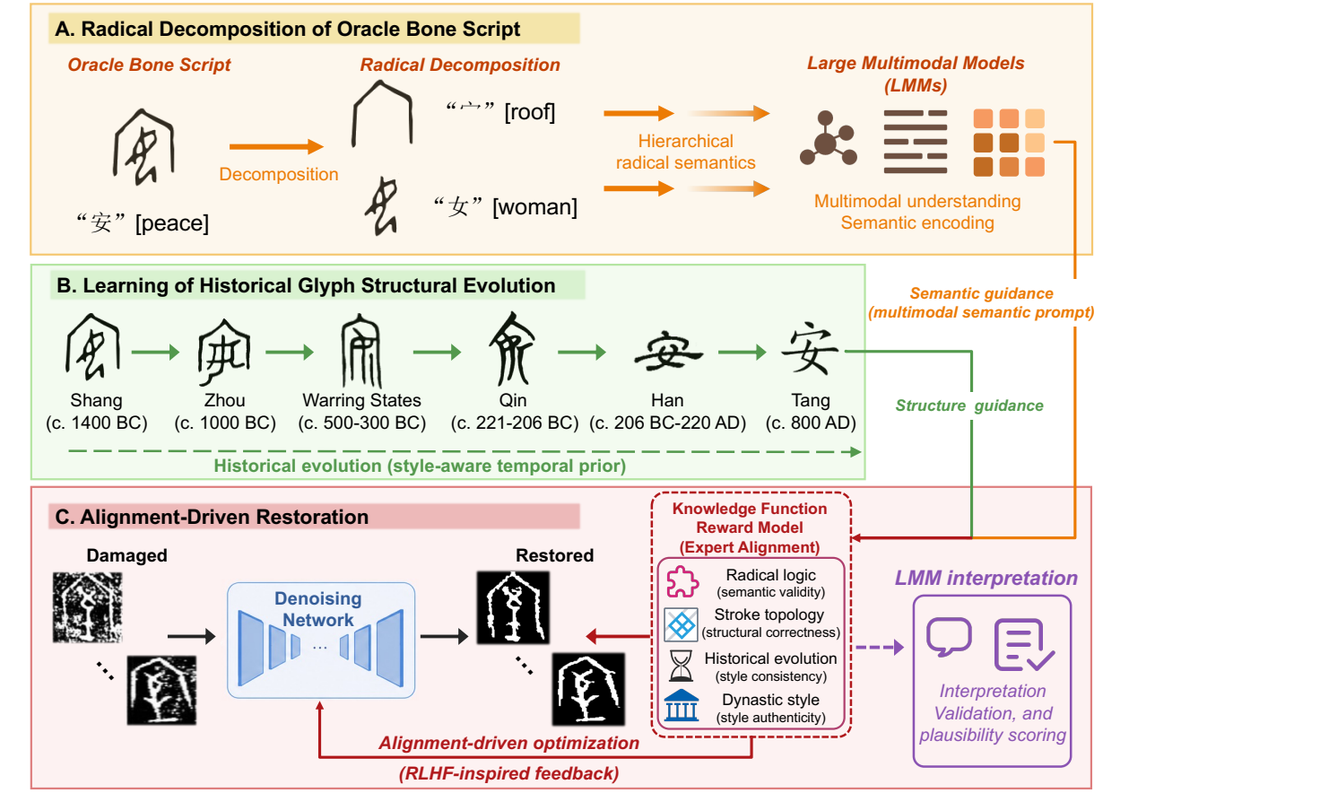
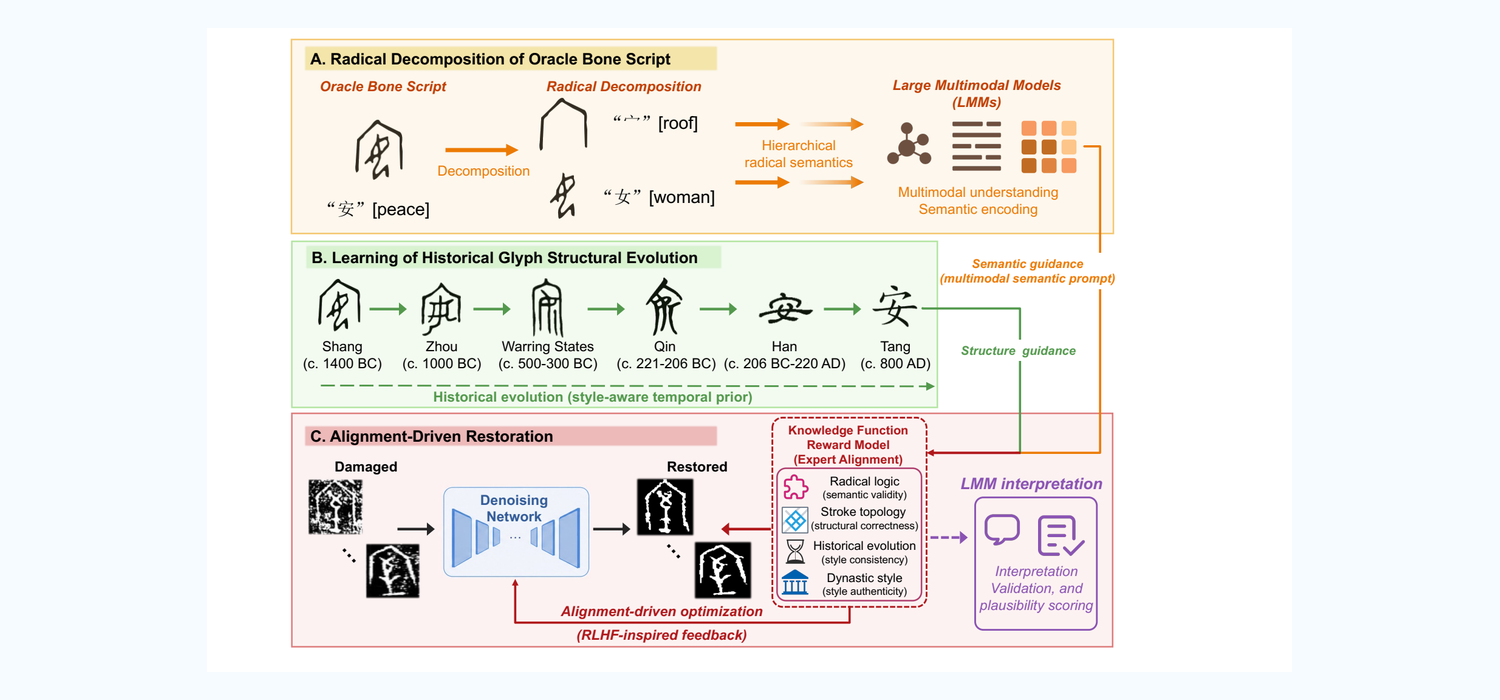
Improve Intelligent Computing figure ratio

Changed region(s): [[0.0, 0.0, 0.8386, 1.0]]

diff --git a/index.html b/index.html
@@ -169,7 +169,7 @@ profile-motion: true
             <article class="publication-item reveal-item">
                 <div class="publication-visual">
                     <p class="publication-status">Intelligent Computing 2026</p>
-                    <a class="publication-thumb publication-thumb-cover" href="https://spj.science.org/doi/10.34133/icomputing.1195" target="_blank" rel="noopener" aria-label="Open Intelligent Computing paper">
+                    <a class="publication-thumb" href="https://spj.science.org/doi/10.34133/icomputing.1195" target="_blank" rel="noopener" aria-label="Open Intelligent Computing paper">
                         <img src="{{ site.baseurl }}/img/publications/icomputing-character-restoration-perspective.png" alt="Conceptual framework for authentic ancient Chinese character image restoration">
                     </a>
                 </div>

diff --git a/_includes/head.html b/_includes/head.html
@@ -34,7 +34,7 @@
 
     <!-- Custom CSS -->
     <link rel="stylesheet" href="{{ "/css/hux-blog.min.css" | prepend: site.baseurl }}">
-    <link rel="stylesheet" href="{{ "/css/profile.css?v=20260909-2" | prepend: site.baseurl }}">
+    <link rel="stylesheet" href="{{ "/css/profile.css?v=20260909-3" | prepend: site.baseurl }}">
 
     <!-- Pygments Github CSS -->
     <link rel="stylesheet" href="{{ "/css/syntax.css" | prepend: site.baseurl }}">

diff --git a/css/profile.css b/css/profile.css
@@ -1312,11 +1312,6 @@ body {
     width: 100%;
 }
 
-.profile-shell .publication-thumb-cover img {
-    object-fit: cover;
-    object-position: center;
-}
-
 .profile-shell .publication-status {
     color: var(--accent-strong);
     font-size: 16px;
